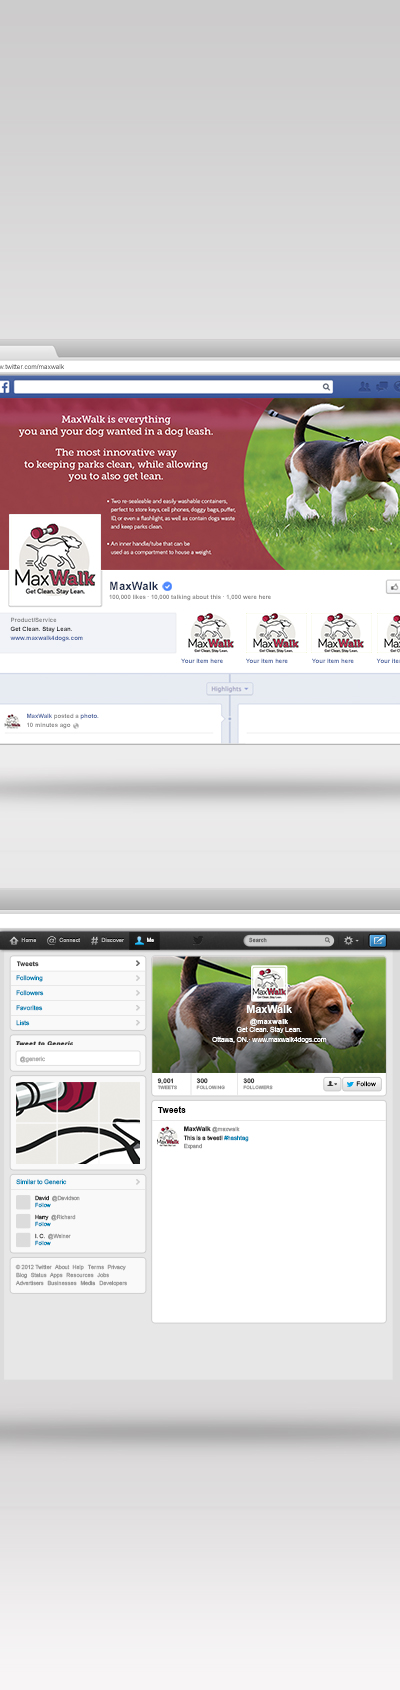
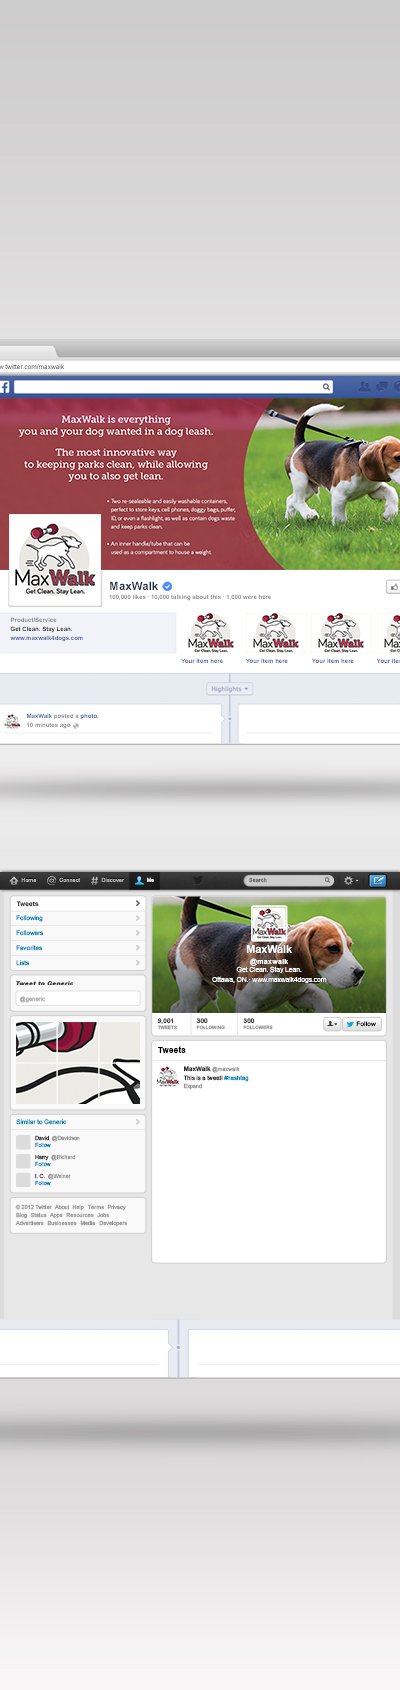
D

diff --git a/_includes/css/common.css b/_includes/css/common.css
@@ -1351,13 +1351,14 @@ height: 3684px;
 
   .c-logo {
     padding: 1.73em 1em 1.73em 0;
+    background-color: gray;
   }
 
   .flex-logo-8 {
     width: 100%;
     padding: 0 0 1em 0;
   }
-  
+
   .flex-logo-7 {
     width: 100%;
     margin-left: -15%;
@@ -1365,6 +1366,7 @@ height: 3684px;
 
   .c-bucket {
 padding: 1.7em 0;
+background-color: red;
 }
 
   .contact-body {
@@ -1401,7 +1403,7 @@ padding: 4.7em 5em;
 }
 
   .market-link {
-    padding: 7.5em 2em;
+    padding: 7.6em 2em;
   }
 
   #market-1 h3 {
@@ -1473,9 +1475,17 @@ font-size: 3.67em;
 .market-link-1 {
 padding: 6.8em 2em;
 }
+
+.c-bucket {
+padding: 2.84em 0;
+}
 }
 
 @media only screen and (min-width: 56em) {
+  .flex-logo-2 {
+width: 42.5%;
+}
+
 #cssmenu a {
 padding: 0 26.9px;
 }
@@ -1497,7 +1507,7 @@ font-size: 3.93em;
 }
 
 .flex-logo-5 {
-width: 38%;
+width: 38.8%;
 }
 
 .logo-2 h3 {
@@ -1507,11 +1517,15 @@ font-size: 3.87em;
 .market-link-1 {
 padding: 7.3em 2em;
 }
+
+.c-bucket {
+padding: 3.03em 0;
+}
 }
 
 @media only screen and (min-width: 60em) {
 .flex-logo-2 {
-width: 38%;
+width: 38.8%;
 }
 
 #cssmenu a {
@@ -1543,13 +1557,17 @@ font-size: 4.34em;
 }
 
 .flex-logo-5 {
-width: 35%;
+width: 35.5%;
+}
+
+.c-bucket {
+padding: 4.11em 0;
 }
 }
 
 @media only screen and (min-width: 62em) {
 .flex-logo-2 {
-width: 37%;
+width: 37.5%;
 }
 
 #cssmenu a {
@@ -1572,18 +1590,26 @@ height: 472px;
 font-size: 4.54em;
 }
 
+.flex-logo-5 {
+width: 35%;
+}
+
 .logo-2 h3 {
 font-size: 4.54em;
 }
 
 .market-link-1 {
-padding: 7.5em 2em;
+padding: 7.6em 2em;
+}
+
+.c-bucket {
+padding: 4.27em 0;
 }
 }
 
 @media only screen and (min-width: 64em) {
   .flex-logo-2 {
-    width: 36%;
+    width: 36.5%;
   }
 
   #cssmenu a {
@@ -1733,6 +1759,10 @@ padding: 5.6em 3em;
   .c-logo {
     padding: 2.13em 3em 2.13em 0;
   }
+
+  .c-bucket {
+padding: 4.2em 0;
+}
 
   .copyright {
     padding: 0.5em;
